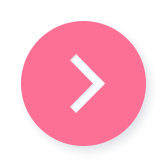
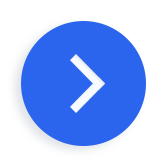
Change to blue theme
Change main color from pink to blue.

diff --git a/src/components/v5/Products.jsx b/src/components/v5/Products.jsx
@@ -7,6 +7,7 @@ import { jsx } from '@emotion/core';
 import Box from '../Box';
 import ListContainer from '../ListContainer';
 import ListItem from '../ListItem';
+import Link from '../Link';
 import Text from '../Text';
 import ArrowButton from './ArrowButton';
 
@@ -25,22 +26,26 @@ const images = [
 const styles = {
   container: {
     position: 'relative',
-    margin: '-2em 5% 0',
+    margin: '-28vw 5% 7vw',
+    padding: '1em 5%',
     borderRadius: '.3em',
     borderTopRightRadius: '5em',
   },
   product: {
     position: 'relative',
     padding: '2em 0',
-    paddingLeft: '25%',
+    paddingLeft: '30%',
     borderBottom: '1px solid #E3E9F3',
     lineHeight: '140%',
     fontSize: '3vw',
+    '&:last-child': {
+      borderBottom: 0,
+    },
   },
   thumbnail: {
     position: 'absolute',
     top: '2em',
-    left: '-5%',
+    left: 0,
     width: '25%',
   },
   title: {
@@ -50,12 +55,13 @@ const styles = {
   },
   description: {
     marginTop: '1em',
+    color: '#5C5C5C',
   },
   note: {
     color: '#ADB5C1',
   },
   button: {
-    right: '-6%',
+    right: '-2%',
   },
 };
 
@@ -68,21 +74,23 @@ export default function Products({ t }) {
             style={styles.product}
             key={index}
           >
-            <img
-              css={styles.thumbnail}
-              src={images[index - 1]}
-              alt=""
-            />
-            <h2 css={styles.title}>
-              {t[`products_title${index}`]}
-            </h2>
-            <div css={styles.description}>
-              <Text value={t[`products_description${index}`]} />
-            </div>
-            <div css={styles.note}>
-              <Text value={t[`products_note${index}`]} />
-            </div>
-            <ArrowButton style={styles.button} />
+            <Link to="/?version=5">
+              <img
+                css={styles.thumbnail}
+                src={images[index - 1]}
+                alt=""
+              />
+              <h2 css={styles.title}>
+                {t[`products_title${index}`]}
+              </h2>
+              <div css={styles.description}>
+                <Text value={t[`products_description${index}`]} />
+              </div>
+              <div css={styles.note}>
+                <Text value={t[`products_note${index}`]} />
+              </div>
+              <ArrowButton style={styles.button} />
+            </Link>
           </ListItem>
         ))}
       </ListContainer>

diff --git a/src/components/v5/HeaderPanel.jsx b/src/components/v5/HeaderPanel.jsx
@@ -6,58 +6,58 @@ import { jsx } from '@emotion/core';
 
 import StrongText from '../StrongText';
 
-import underlined from '../../styles/v5/underlined';
-
 import { HeaderImage } from '../../assets/v5';
 
 const styles = {
   container: {
     position: 'relative',
-    padding: '85vw 0 15vw',
-    background: 'linear-gradient(135deg, #FFB4C8 0%, #FF7197 100%)',
+    padding: '25vw 0 40vw',
+    background: 'linear-gradient(135deg, #7AC7F8 0%, #6594F8 100%)',
     color: '#FFF',
   },
-  image: {
+  background: {
     position: 'absolute',
     top: 0,
     left: 0,
     width: '100%',
-    height: '100%',
-    background: `url(${HeaderImage}) 80% 20% no-repeat`,
-    backgroundSize: '60vw',
+    height: '70%',
+    background: `url(${HeaderImage}) 50% 0 no-repeat`,
+    backgroundSize: 'cover',
   },
   slogan1: {
     position: 'relative',
-    margin: '0 5%',
+    margin: 0,
+    lineHeight: '120%',
     fontFamily: 'BMJUA',
-    fontSize: '8vw',
+    fontSize: '9vw',
+    fontWeight: 'normal',
+    textAlign: 'center',
     '& b': {
-      color: '#FFDEE7',
+      fontWeight: 'normal',
+      color: '#CDE8FF',
     },
   },
   slogan2: {
     position: 'relative',
-    display: 'inline-block',
-    margin: '.4em 5% 0',
-    color: '#D03760',
+    margin: '.6em 0 0',
+    color: '#20336A',
     fontFamily: 'BMJUA',
-    fontSize: '4.6vw',
+    fontSize: '7.2vw',
+    fontWeight: 'normal',
     fontStyle: 'italic',
-    '& b': {
-      fontSize: '1.4em',
-    },
+    textAlign: 'center',
   },
 };
 
 export default function HeaderPanel({ t }) {
   return (
     <div css={styles.container}>
-      <div css={styles.image} />
+      <div css={styles.background} />
       <h1 css={styles.slogan1}>
         <StrongText value={t.v5_slogan1} />
       </h1>
-      <h2 css={[styles.slogan2, underlined('#FFA1BB')]}>
-        <StrongText value={t.v5_slogan2} />
+      <h2 css={styles.slogan2}>
+        {t.v5_slogan2}
       </h2>
     </div>
   );

diff --git a/src/components/v5/ArrowButton.jsx b/src/components/v5/ArrowButton.jsx
@@ -6,11 +6,14 @@ import { jsx } from '@emotion/core';
 
 import { imageReplacement } from '../../styles/utils';
 
-import { ArrowImage } from '../../assets/v5';
+import {
+  ArrowImage,
+  ArrowPinkImage,
+} from '../../assets/v5';
 
 const styles = {
-  button: {
-    ...imageReplacement(ArrowImage),
+  button: (pink) => ({
+    ...imageReplacement(pink ? ArrowPinkImage : ArrowImage),
     position: 'absolute',
     top: '50%',
     right: 0,
@@ -19,14 +22,14 @@ const styles = {
     width: '4em',
     height: '4em',
     border: 0,
-  },
+  }),
 };
 
-export default function ArrowButton({ style }) {
+export default function ArrowButton({ style, pink }) {
   return (
     <button
       type="button"
-      css={[styles.button, style || {}]}
+      css={[styles.button(pink), style || {}]}
     >
       See more
     </button>

diff --git a/src/components/v5/Products.test.jsx b/src/components/v5/Products.test.jsx
@@ -3,6 +3,8 @@ import '@testing-library/jest-dom/extend-expect';
 import React from 'react';
 import { render, screen } from '@testing-library/react';
 
+import { BrowserRouter as Router } from 'react-router-dom';
+
 import Products from './Products';
 
 jest.mock('../../assets/v5');
@@ -13,7 +15,11 @@ describe('Products', () => {
       products_title1: '해외 의료비 보험',
     };
 
-    render(<Products t={t} />);
+    render(
+      <Router>
+        <Products t={t} />
+      </Router>,
+    );
 
     expect(screen.getByText(/해외 의료비 보험/))
       .toBeInTheDocument();

diff --git a/src/assets/v5.js b/src/assets/v5.js
@@ -7,6 +7,7 @@ import ProductImage2 from './images/v5/product2.png';
 import ProductImage3 from './images/v5/product3.png';
 
 import ArrowImage from './images/v5/arrow.png';
+import ArrowPinkImage from './images/v5/arrow-pink.png';
 import ArrowDownImage from './images/v5/arrow-down.png';
 
 import TalkImage1 from './images/v5/talk1.png';
@@ -25,6 +26,7 @@ export {
   ProductImage2,
   ProductImage3,
   ArrowImage,
+  ArrowPinkImage,
   ArrowDownImage,
   TalkImage1,
   TalkImage2,

diff --git a/src/components/v5/Header.jsx b/src/components/v5/Header.jsx
@@ -29,14 +29,14 @@ const styles = {
     },
   },
   filled: {
-    backgroundColor: '#FFB4C8',
+    backgroundColor: '#7AC7F8',
     boxShadow: '0 0 6px 0 rgba(200, 200, 200, .5)',
   },
   logo: {
     float: 'left',
     display: 'block',
-    width: '120px',
-    height: '30px',
+    width: '200px',
+    height: '50px',
     cursor: 'pointer',
     [BASE_MQ]: {
       width: '250px',

diff --git a/src/components/v5/BenefitShare.jsx b/src/components/v5/BenefitShare.jsx
@@ -119,9 +119,9 @@ export default function BenefitShare({ t }) {
         </div>
       </div>
       <Box style={styles.more}>
-        <Link to="/">
+        <Link to="/?version=5">
           <StrongText value={t.benefit_share_more} />
-          <ArrowButton style={styles.button} />
+          <ArrowButton style={styles.button} pink />
         </Link>
       </Box>
     </div>

diff --git a/src/assets/__mocks__/v5.js b/src/assets/__mocks__/v5.js
@@ -7,6 +7,7 @@ export const ProductImage2 = '';
 export const ProductImage3 = '';
 
 export const ArrowImage = '';
+export const ArrowPinkImage = '';
 export const ArrowDownImage = '';
 
 export const TalkImage1 = '';
